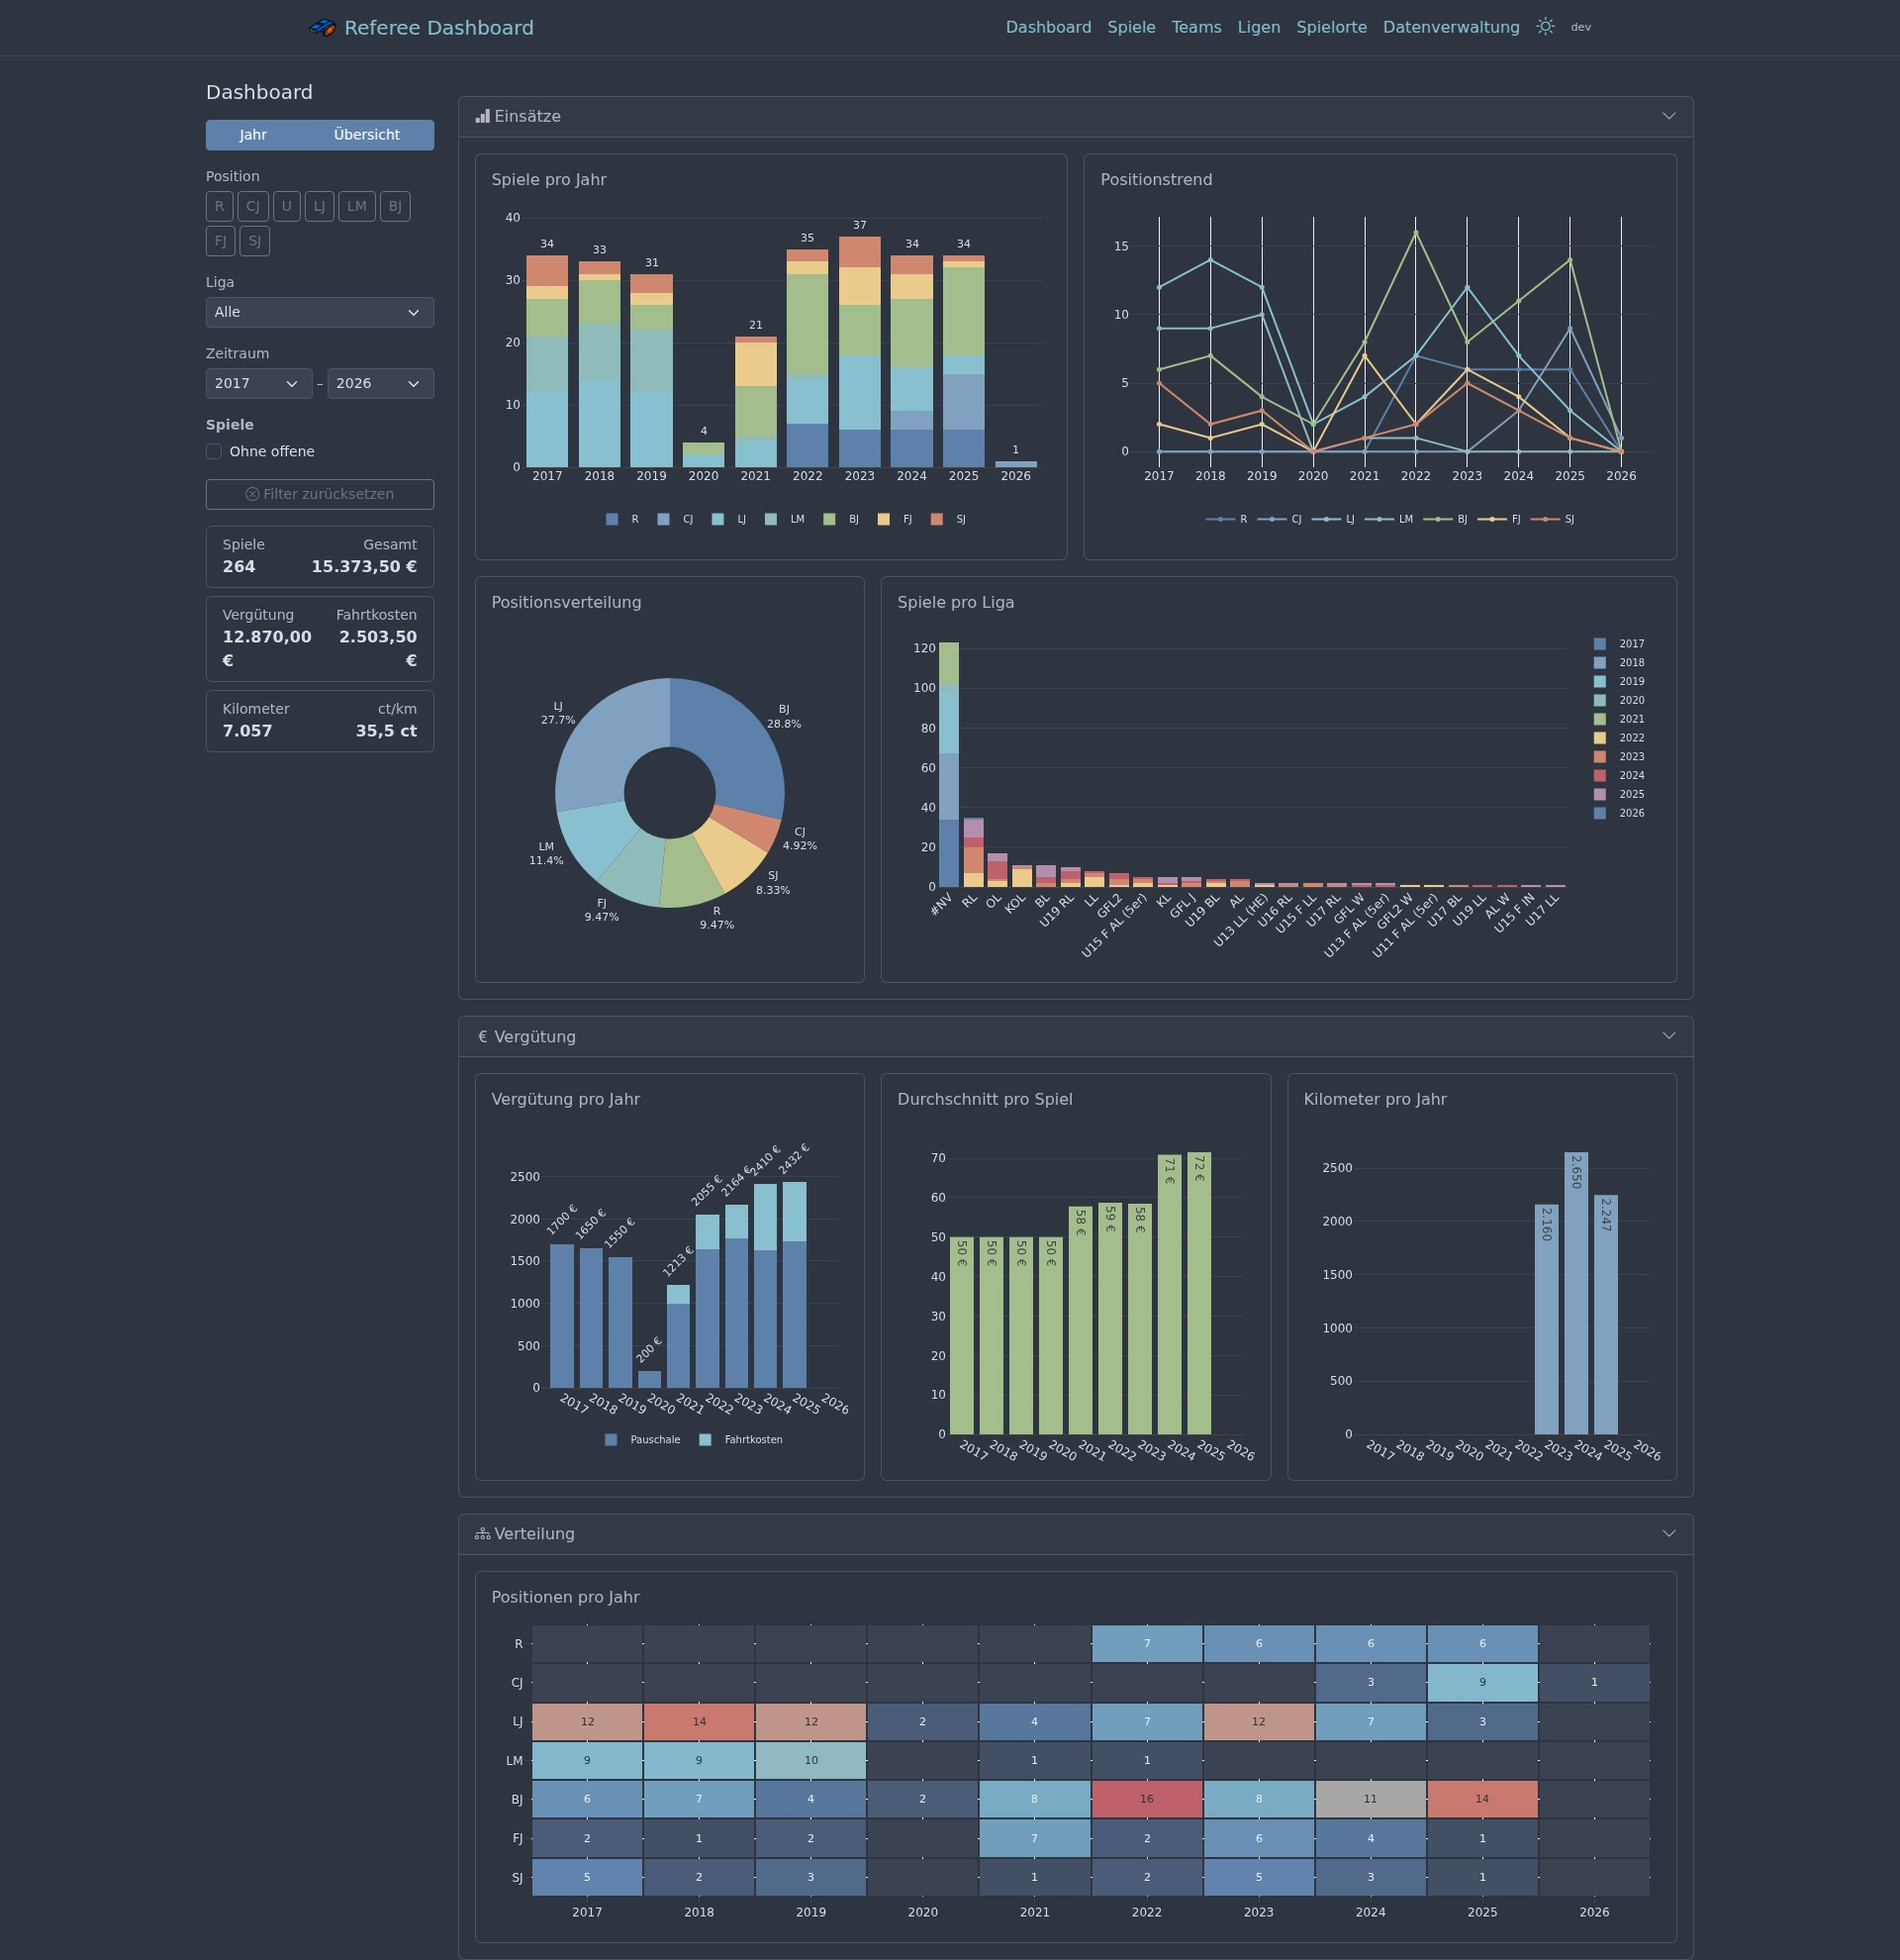
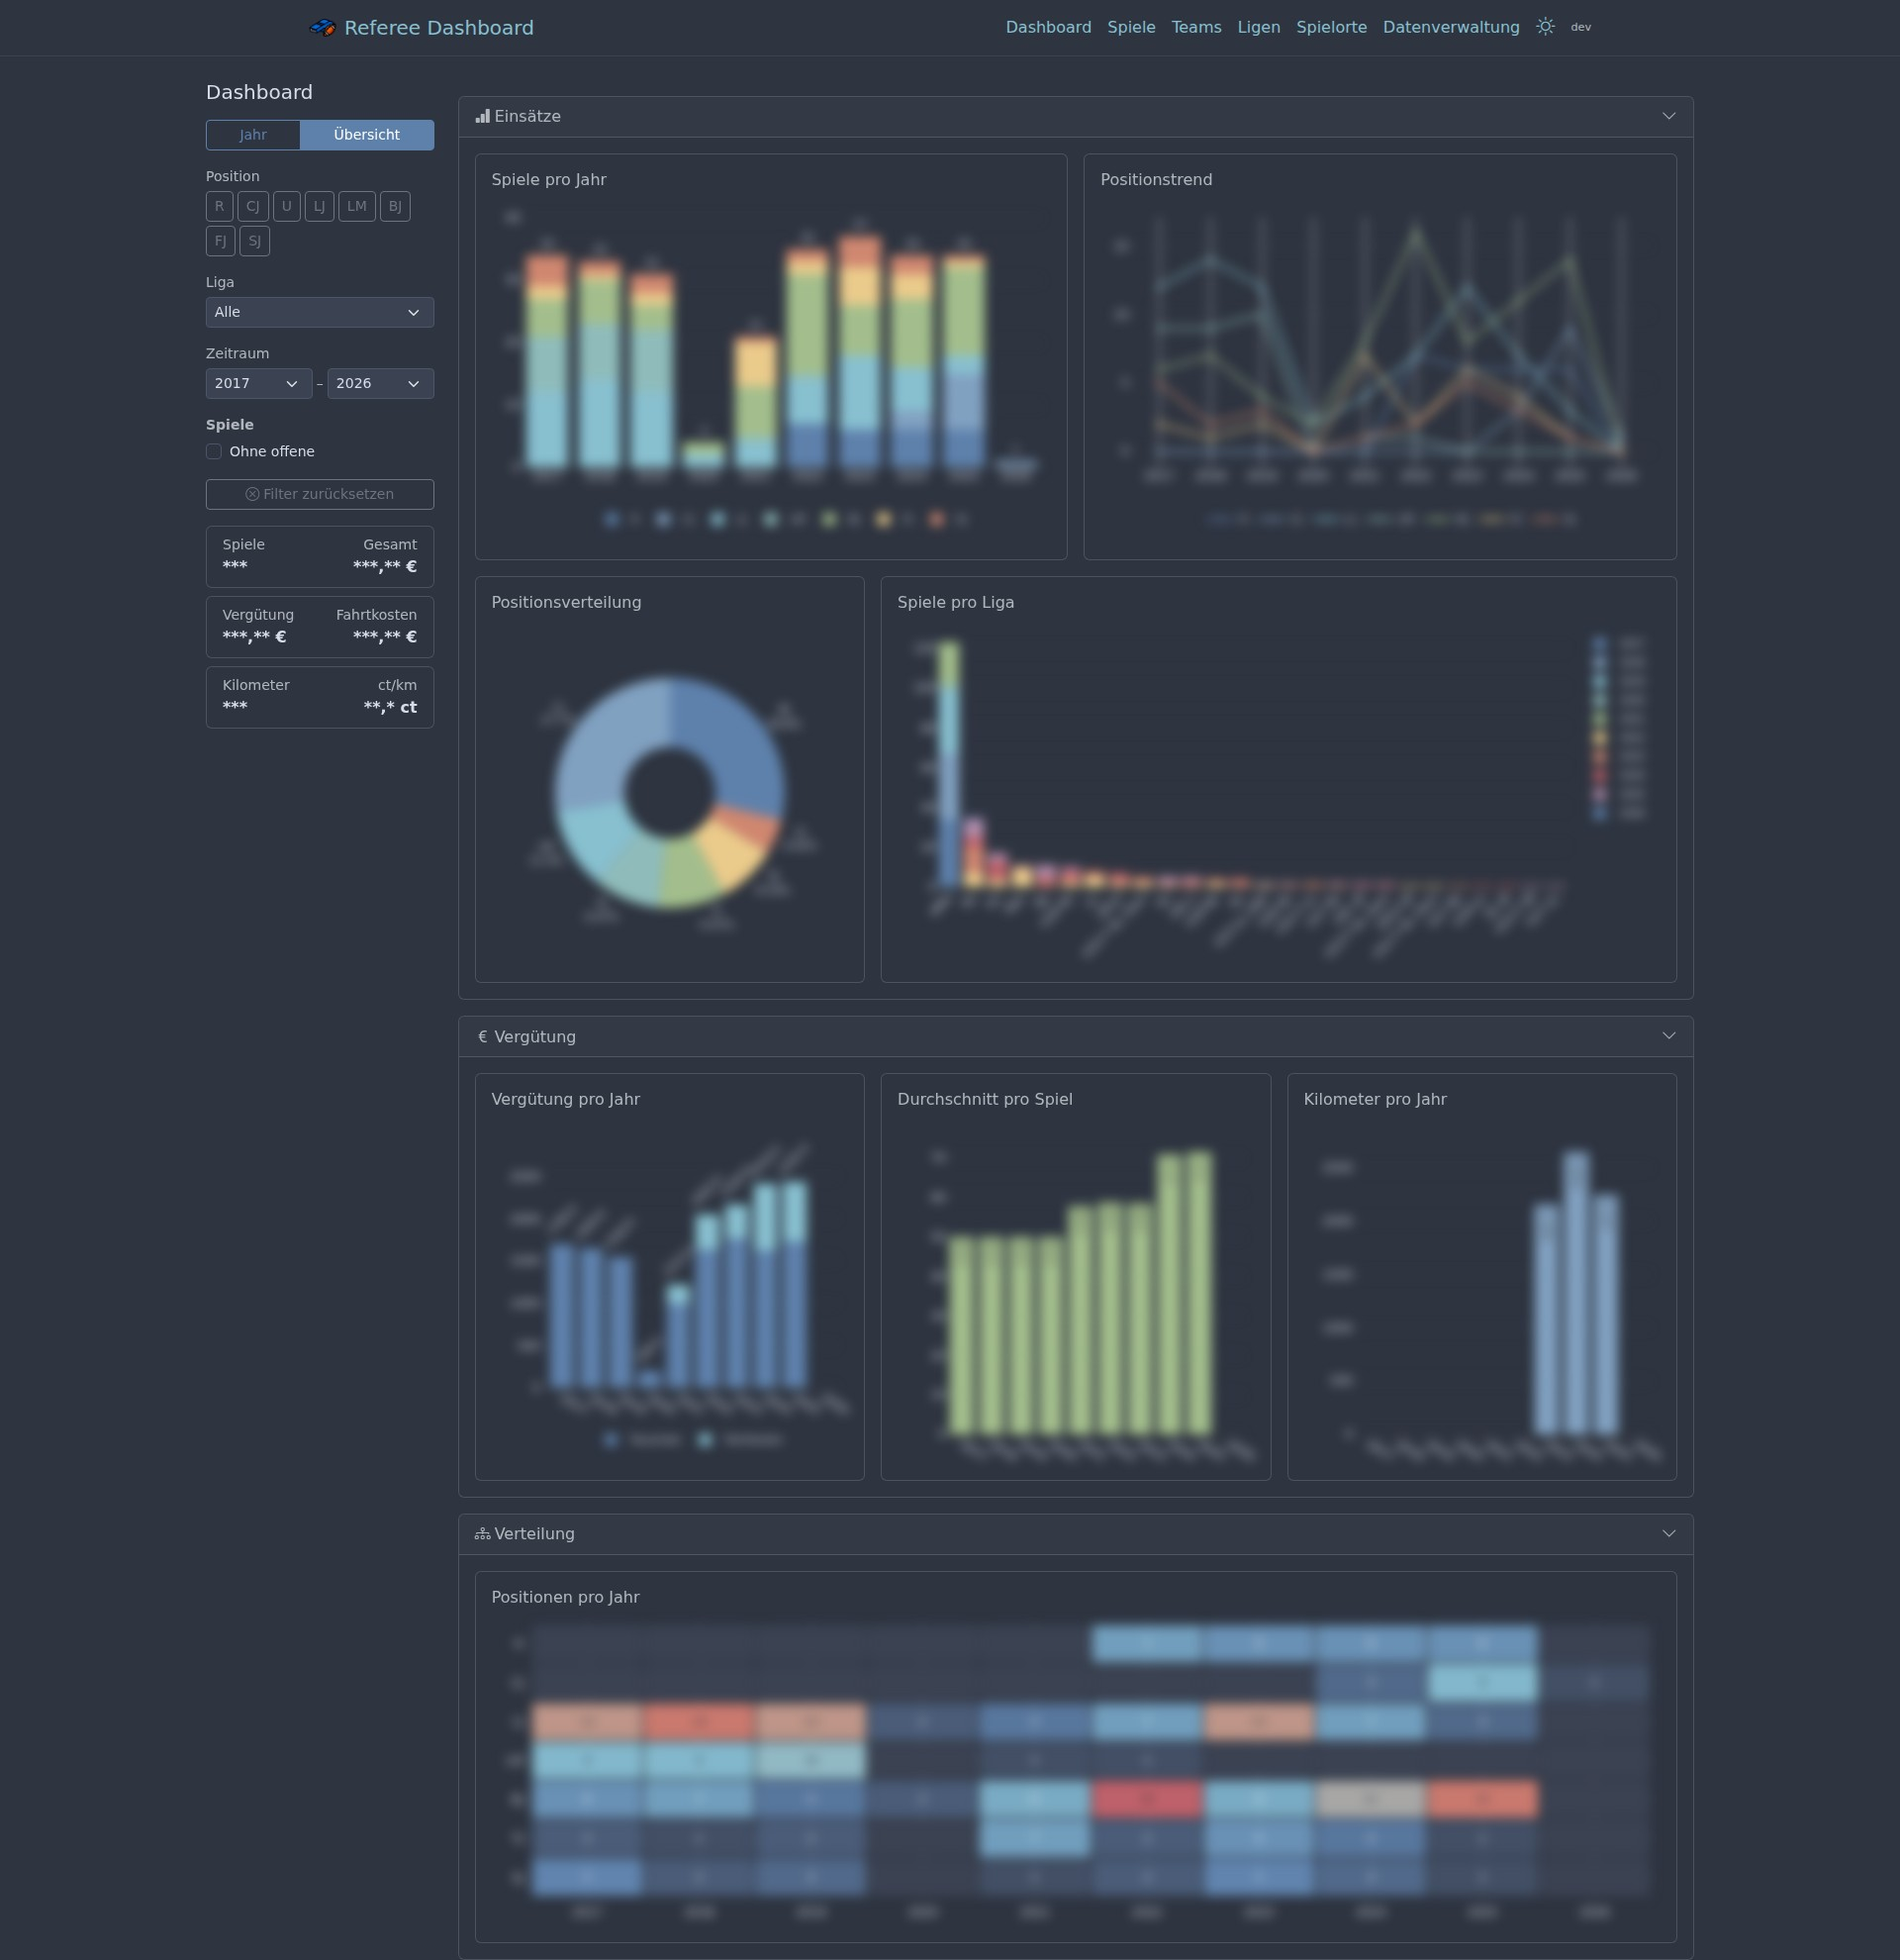
Redact financial data in screenshots
Charts blurred with CSS filter, EUR amounts and stats replaced
with *** placeholders before capture.

diff --git a/scripts/screenshots.go b/scripts/screenshots.go
@@ -12,6 +12,36 @@ import (
 	"github.com/chromedp/chromedp"
 )
 
+// JS to redact sensitive financial data before screenshot
+const redactJS = `
+(function() {
+    // Blur all Plotly chart containers
+    document.querySelectorAll('.js-plotly-plot, [id^="chart-"]').forEach(el => {
+        el.style.filter = 'blur(6px)';
+    });
+
+    // Replace EUR amounts, numbers in stat cards and table cells
+    document.querySelectorAll('.card-body .fw-bold, .card-body span[x-text], td.text-end').forEach(el => {
+        var text = el.textContent;
+        // Replace EUR amounts like "1.234,56 €" or "0,00 €"
+        text = text.replace(/[\d.,]+\s*€/g, '***,** €');
+        // Replace plain numbers like "2.247" or "34"
+        text = text.replace(/^[\d.,]+$/, '***');
+        // Replace ct/km values
+        text = text.replace(/[\d,]+\s*ct/g, '**,* ct');
+        el.textContent = text;
+    });
+
+    // Redact table rows (games list: fee columns)
+    document.querySelectorAll('table td').forEach(el => {
+        var text = el.textContent;
+        if (/[\d.,]+\s*€/.test(text)) {
+            el.textContent = text.replace(/[\d.,]+\s*€/g, '***,** €');
+        }
+    });
+})();
+`
+
 func main() {
 	baseURL := "http://localhost:8080"
 	if len(os.Args) > 1 {
@@ -48,6 +78,8 @@ func main() {
 		err := chromedp.Run(ctx,
 			chromedp.Navigate(url),
 			chromedp.Sleep(3*time.Second),
+			chromedp.Evaluate(redactJS, nil),
+			chromedp.Sleep(500*time.Millisecond),
 			chromedp.FullScreenshot(&buf, 90),
 		)
 		if err != nil {
@@ -69,9 +101,10 @@ func main() {
 	err := chromedp.Run(ctx,
 		chromedp.Navigate(baseURL+"/dashboard/"),
 		chromedp.Sleep(3*time.Second),
-		// Set season to 2025 via Alpine.js reactivity
 		chromedp.Evaluate(`Alpine.evaluate(document.querySelector('[x-data="dashboard"]'), 'season = "2025"')`, nil),
 		chromedp.Sleep(3*time.Second),
+		chromedp.Evaluate(redactJS, nil),
+		chromedp.Sleep(500*time.Millisecond),
 		chromedp.FullScreenshot(&dashBuf, 90),
 	)
 	if err != nil {
@@ -82,17 +115,16 @@ func main() {
 		fmt.Printf("  -> %s (%d KB)\n", path, len(dashBuf)/1024)
 	}
 
-	// Overview: need to click the "Übersicht" button first
+	// Overview: click "Übersicht" button
 	fmt.Println("Capturing screenshot-overview ...")
 	var buf []byte
 	err = chromedp.Run(ctx,
 		chromedp.Navigate(baseURL+"/dashboard/"),
 		chromedp.Sleep(3*time.Second),
-		chromedp.Click(`button[class*="btn"]`, chromedp.ByQuery, chromedp.NodeVisible),
-		chromedp.Sleep(500*time.Millisecond),
-		// Click the "Übersicht" button (second in the btn-group)
 		chromedp.Evaluate(`document.querySelectorAll('.btn-group button')[1].click()`, nil),
 		chromedp.Sleep(3*time.Second),
+		chromedp.Evaluate(redactJS, nil),
+		chromedp.Sleep(500*time.Millisecond),
 		chromedp.FullScreenshot(&buf, 90),
 	)
 	if err != nil {
